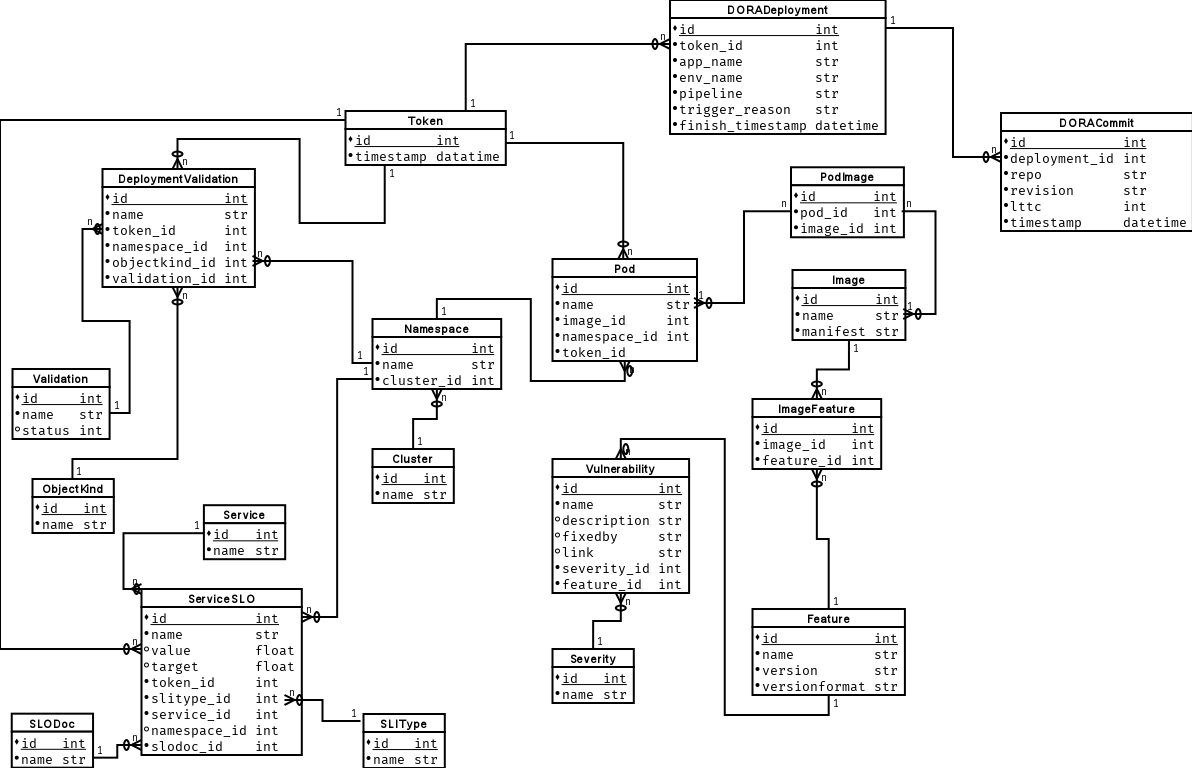
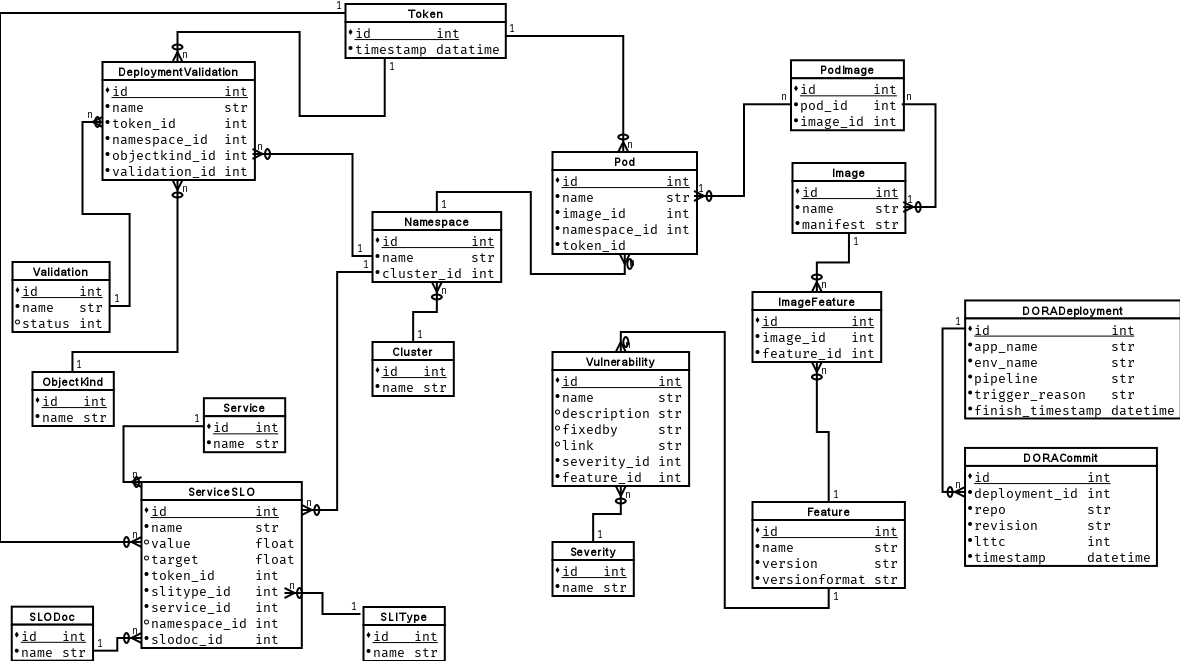
Remove DORA Token and re-do migrator (#98)

diff --git a/migrations/versions/c18e90484e36_.py b/migrations/versions/c18e90484e36_.py
@@ -1,8 +1,8 @@
 """empty message
 
-Revision ID: 6d6661369d50
+Revision ID: c18e90484e36
 Revises: 248a30ecba33
-Create Date: 2023-09-04 12:43:40.731381
+Create Date: 2023-09-15 08:25:10.687747
 
 """
 from alembic import op
@@ -10,34 +10,21 @@ import sqlalchemy as sa
 
 
 # revision identifiers, used by Alembic.
-revision = '6d6661369d50'
+revision = 'c18e90484e36'
 down_revision = '248a30ecba33'
 branch_labels = None
 depends_on = None
-
-table_name = 'token'
-column_name = 'data_type'
-enum_name = 'datatypes'
-tmp_enum_name = 'tmp_' + enum_name
-
-old_options = ('CSODataType', 'DVODataType', 'SLODataType')
-new_options = sorted(old_options + ('DORADataType',))
-
-old_type = sa.Enum(*old_options, name=enum_name)
-new_type = sa.Enum(*new_options, name=enum_name)
 
 
 def upgrade():
     # ### commands auto generated by Alembic - please adjust! ###
     op.create_table('doradeployment',
     sa.Column('id', sa.Integer(), nullable=False),
-    sa.Column('token_id', sa.Integer(), nullable=True),
     sa.Column('trigger_reason', sa.String(length=256), nullable=True),
     sa.Column('finish_timestamp', sa.DateTime(), nullable=True),
     sa.Column('app_name', sa.String(length=256), nullable=True),
     sa.Column('env_name', sa.String(length=256), nullable=True),
     sa.Column('pipeline', sa.String(length=256), nullable=True),
-    sa.ForeignKeyConstraint(['token_id'], ['token.id'], ),
     sa.PrimaryKeyConstraint('id'),
     sa.UniqueConstraint('app_name', 'env_name', 'pipeline', 'trigger_reason', name='doradeployment_trigger_reason_app_name_env_name_pipeline_uc')
     )
@@ -45,7 +32,6 @@ def upgrade():
     op.create_index(op.f('ix_doradeployment_env_name'), 'doradeployment', ['env_name'], unique=False)
     op.create_index(op.f('ix_doradeployment_finish_timestamp'), 'doradeployment', ['finish_timestamp'], unique=False)
     op.create_index(op.f('ix_doradeployment_pipeline'), 'doradeployment', ['pipeline'], unique=False)
-    op.create_index(op.f('ix_doradeployment_token_id'), 'doradeployment', ['token_id'], unique=False)
     op.create_index(op.f('ix_doradeployment_trigger_reason'), 'doradeployment', ['trigger_reason'], unique=False)
     op.create_table('doracommit',
     sa.Column('id', sa.Integer(), nullable=False),
@@ -62,14 +48,6 @@ def upgrade():
     op.create_index(op.f('ix_doracommit_timestamp'), 'doracommit', ['timestamp'], unique=False)
     # ### end Alembic commands ###
 
-    # Manually added to add a new type to datatypes
-    op.execute("ALTER TYPE " + enum_name + " RENAME TO " + tmp_enum_name)
-    new_type.create(op.get_bind())
-    op.execute("ALTER TABLE " + table_name + " ALTER COLUMN " + column_name +
-               " TYPE " + enum_name + " USING " + table_name + "::text::" +
-               enum_name)
-    op.execute("DROP TYPE " + tmp_enum_name)
-
 
 def downgrade():
     # ### commands auto generated by Alembic - please adjust! ###
@@ -77,23 +55,9 @@ def downgrade():
     op.drop_index(op.f('ix_doracommit_deployment_id'), table_name='doracommit')
     op.drop_table('doracommit')
     op.drop_index(op.f('ix_doradeployment_trigger_reason'), table_name='doradeployment')
-    op.drop_index(op.f('ix_doradeployment_token_id'), table_name='doradeployment')
     op.drop_index(op.f('ix_doradeployment_pipeline'), table_name='doradeployment')
     op.drop_index(op.f('ix_doradeployment_finish_timestamp'), table_name='doradeployment')
     op.drop_index(op.f('ix_doradeployment_env_name'), table_name='doradeployment')
     op.drop_index(op.f('ix_doradeployment_app_name'), table_name='doradeployment')
     op.drop_table('doradeployment')
     # ### end Alembic commands ###
-
-    # @REF [Creating migrations when changing an enum in Python using SQLAlchemy](https://markrailton.com/blog/creating-migrations-when-changing-an-enum-in-python-using-sql-alchemy)
-    # Instatiate db query
-    audit = sa.sql.table('token', sa.Column('data_type', new_type,
-                                            nullable=False))
-    # Rename
-    op.execute("ALTER TYPE " + enum_name + " RENAME TO " + tmp_enum_name)
-    old_type.create(op.get_bind())
-    op.execute("ALTER TABLE token ALTER COLUMN data_type TYPE " + enum_name +
-               " USING " + table_name + "::text::" + enum_name)
-
-    # Drop
-    op.execute("DROP TYPE " + tmp_enum_name)

diff --git a/dashdotdb/services/dora.py b/dashdotdb/services/dora.py
@@ -6,8 +6,7 @@ from typing import List
 from psycopg2.errors import UniqueViolation  # pylint: disable-msg=E0611
 from sqlalchemy import exc
 
-from dashdotdb.models.dashdotdb import db, Token, DataTypes, DORADeployment, DORACommit
-from dashdotdb.controllers.token import TokenNotFound
+from dashdotdb.models.dashdotdb import db, DORADeployment, DORACommit
 
 
 @dataclass
@@ -21,16 +20,7 @@ class DORA:
     def __init__(self) -> None:
         self.log = logging.getLogger()
 
-    def insert(self, token, manifest) -> DORAInsertStats:
-        db_token = (
-            db.session.query(Token)
-            .filter(Token.uuid == token, Token.data_type == DataTypes.DORADataType)
-            .first()
-        )
-
-        if db_token is None:
-            raise TokenNotFound()
-
+    def insert(self, manifest) -> DORAInsertStats:
         stats = DORAInsertStats()
 
         for dep_data in manifest["deployments"]:
@@ -59,7 +49,6 @@ class DORA:
                     )
 
                 deployment = DORADeployment(
-                    token_id=db_token.id,
                     finish_timestamp=finish_timestamp,
                     trigger_reason=dep_data["trigger_reason"],
                     app_name=dep_data["app_name"],

diff --git a/dashdotdb/controllers/dora.py b/dashdotdb/controllers/dora.py
@@ -1,18 +1,10 @@
 from typing import Any, Union
 
 from dashdotdb.services.dora import DORA, DORAInsertStats
-from dashdotdb.controllers.token import (
-    TokenNotFound,
-    TOKEN_NOT_FOUND_CODE,
-    TOKEN_NOT_FOUND_MSG,
-)
 
 
-def post(user, body) -> Union[tuple[str, int], tuple[DORAInsertStats, int]]:
-    try:
-        stats = DORA().insert(token=user, manifest=body)
-    except TokenNotFound:
-        return TOKEN_NOT_FOUND_MSG, TOKEN_NOT_FOUND_CODE
+def post(body) -> Union[tuple[str, int], tuple[DORAInsertStats, int]]:
+    stats = DORA().insert(manifest=body)
 
     # if there's at least one entry created (or marked as duplicate), then
     # the post has been successful, but we report the errors.

diff --git a/dashdotdb/models/dashdotdb.py b/dashdotdb/models/dashdotdb.py
@@ -15,7 +15,6 @@ class Token(db.Model):
     deploymentvalidation = db.relationship('DeploymentValidation',
                                            backref='token')
     serviceslo = db.relationship('ServiceSLO', backref='token')
-    doradeployment = db.relationship('DORADeployment', backref='token')
 
 
 class LatestTokens(db.Model):
@@ -243,7 +242,6 @@ class DORADeployment(db.Model):
     )
 
     id = db.Column(db.Integer, primary_key=True)
-    token_id = db.Column(db.Integer, db.ForeignKey('token.id'), index=True)
 
     trigger_reason = db.Column(db.String(256), unique=False, index=True)
 
